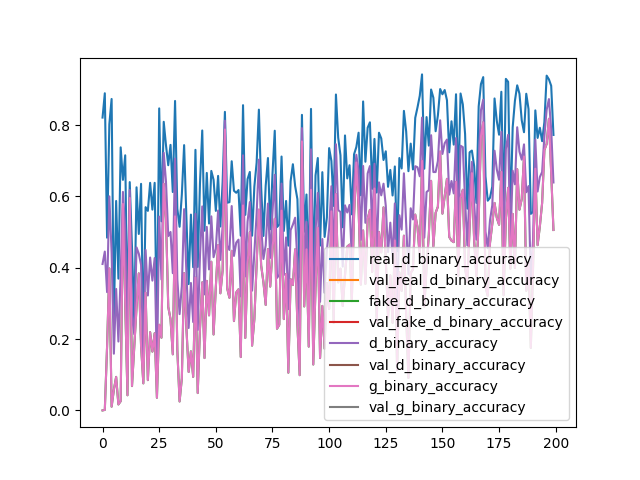
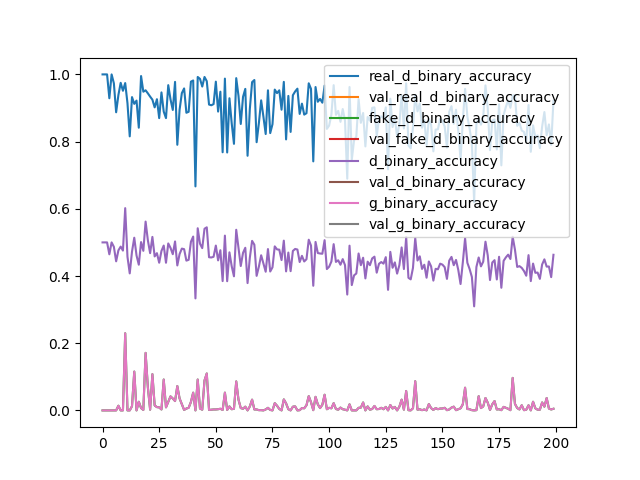
Refine eval function for external use; Gan: Train discriminator on one mixed batch instead of one true and one fake; Rerun demo.py

diff --git a/chandelier/models.py b/chandelier/models.py
@@ -48,7 +48,8 @@ class Model:
                 loss = self.loss_function(out, y_batch)
                 loss.backward(retain_graph=True)
                 self.optimizer.step()
-            self.eval(x, y, None)
+            metrics = self.eval(x, y, None)
+            self._record(metrics)
             vprint(' - loss: {:.4f}'.format(self.hist['loss'][-1]), end='')
             if False:
                 vprint(' - val_loss: {:.4f}'.format(self.hist['val_loss'][-1]), end='')
@@ -57,18 +58,27 @@ class Model:
     def eval(self, x, y, validation_data):
         out = self.model(x, training=False)
         loss = self.loss_function(out, y)
-        self.hist['loss'].append(loss.cpu().data.numpy())
+        
+        results = {}
+
+        results['loss'] = loss.cpu().data.numpy()
         for metric in self.metrics:
-            self.hist[metric.__name__].append(metric(y, out))
+            results[metric.__name__] = metric(y, out)
 
         if not validation_data is None:
             val_x = validation_data[0]
             val_y = validation_data[1]
             out = self.model(val_x, training=False)
             loss = self.loss_function(out, val_y)
-            self.hist['val_loss'].append(loss.cpu().data.numpy())
+            results['val_loss'] = loss.cpu().data.numpy()
             for metric in self.metrics:
-                self.hist['val_'+metric.__name__].append(metric(val_y, out))
+                results['val_'+metric.__name__] = metric(val_y, out)
+
+        return results
+
+    def _record(self, metrics):
+        for k, v in metrics.items():
+            self.hist[k].append(v)
 
     def predict(self, x, training=False):
         return self.model(x, training=False)
@@ -121,16 +131,16 @@ class GAN:
             for b in range(n_batches):
                 batch = idx[batch_size*b:batch_size*(b+1)]
                 real_x_batch = x[batch]
-                real_y_batch = torch.empty(real_x_batch.size(0), dtype=torch.float, device=self.device).fill_(1)
-                noise = torch.empty(real_x_batch.size(0), self.generator.model.input_shape, dtype=torch.float, device=self.device).normal_(0,1)
+                real_y_batch = torch.empty(real_x_batch.size(0)*2, dtype=torch.float, device=self.device).fill_(1)
+                noise = torch.empty(real_x_batch.size(0)*2, self.generator.model.input_shape, dtype=torch.float, device=self.device).normal_(0,1)
                 fake_x_batch = self.generator.predict(noise, training=True)
-                fake_y_batch = torch.empty(real_x_batch.size(0), dtype=torch.float, device=self.device).fill_(0)
+                fake_y_batch = torch.empty(noise.size(0), dtype=torch.float, device=self.device).fill_(0)
 
-                # Real data
-                self.discriminator.fit(real_x_batch, real_y_batch, batch_size=batch_size, epochs=1, verbose=0, initial_epoch=i)
+                x_batch = torch.cat((real_x_batch, fake_x_batch[::2]))
+                y_batch = torch.cat((real_y_batch[::2], fake_y_batch[::2]))
 
-                # Fake data
-                self.discriminator.fit(fake_x_batch, fake_y_batch, batch_size=batch_size, epochs=1, verbose=0, initial_epoch=i)
+                # Discriminator
+                self.discriminator.fit(x_batch, y_batch, batch_size=batch_size, epochs=1, verbose=0, initial_epoch=i)
 
                 # Generator
                 self.generator.optimizer.zero_grad()
@@ -138,7 +148,8 @@ class GAN:
                 loss = self.loss_function(out, real_y_batch)
                 loss.backward(retain_graph=True)
                 self.generator.optimizer.step()
-            self.eval(x, None)
+            metrics = self.eval(x, None)
+            self._record(metrics)
             vprint(' - d_loss: {:.4f}'.format(self.hist['d_loss'][-1]), end='')
             vprint(' - g_loss: {:.4f}'.format(self.hist['g_loss'][-1]), end='')
             if False:
@@ -152,31 +163,41 @@ class GAN:
         fake_x = self.generator.predict(noise, training=True)
         fake_y = torch.empty(real_x.size(0), dtype=torch.float, device=self.device).fill_(0)
 
+        results = {}
+
         # Real data
         out = self.discriminator.predict(real_x)
         loss = self.loss_function(out, real_y)
-        self.hist['real_d_loss'].append(loss.cpu().data.numpy())
+        results['real_d_loss'] = loss.cpu().data.numpy()
         for metric in self.metrics:
-            self.hist['real_d_'+metric.__name__].append(metric(real_y, out))
+            results['real_d_'+metric.__name__] = metric(real_y, out)
 
         # Fake data
         out = self.discriminator.predict(fake_x)
         loss = self.loss_function(out, fake_y)
-        self.hist['fake_d_loss'].append(loss.cpu().data.numpy())
+        results['fake_d_loss'] = loss.cpu().data.numpy()
         for metric in self.metrics:
-            self.hist['fake_d_'+metric.__name__].append(metric(fake_y, out))
+            results['fake_d_'+metric.__name__] = metric(fake_y, out)
 
         # All data
         out = self.discriminator.predict(torch.cat((real_x, fake_x)))
         loss = self.loss_function(out, torch.cat((real_y, fake_y)))
-        self.hist['d_loss'].append(loss.cpu().data.numpy())
+        results['d_loss'] = loss.cpu().data.numpy()
         for metric in self.metrics:
-            self.hist['d_'+metric.__name__].append(metric(torch.cat((real_y, fake_y)), out))
+            results['d_'+metric.__name__] = metric(torch.cat((real_y, fake_y)), out)
 
         # Generator
         out = self.discriminator.predict(fake_x)
         loss = self.loss_function(out, real_y)
-        self.hist['g_loss'].append(loss.cpu().data.numpy())
+        results['g_loss'] = loss.cpu().data.numpy()
         for metric in self.metrics:
-            self.hist['g_'+metric.__name__].append(metric(real_y, out))
+            results['g_'+metric.__name__] = metric(real_y, out)
 
+        return results
+
+    def _record(self, metrics):
+        for k, v in metrics.items():
+            self.hist[k].append(v)
+
+
+    

diff --git a/demo.py b/demo.py
@@ -121,8 +121,8 @@ def test_gan():
     Y_train = torch.LongTensor(Y_train)
     Y_test = torch.LongTensor(Y_test)
 
-    generator = Generator(input_shape=10)
-    generator_optimizer = optim.Adam(generator.parameters(), lr=0.0005, betas=(0.5, 0.999), eps=1e-8)
+    generator = Generator(input_shape=256)
+    generator_optimizer = optim.Adam(generator.parameters(), lr=0.0002, betas=(0.7, 0.999), eps=1e-8)
     generator_loss = nn.BCELoss(reduction='mean')
     generator_model = Model(generator, device='cuda:2')
     generator_model.compile(optimizer=generator_optimizer, loss=generator_loss)
@@ -137,7 +137,7 @@ def test_gan():
     gan_loss = nn.BCELoss(reduction='mean')
     gan_metrics = [binary_accuracy]
     gan = GAN(discriminator_model, generator_model, loss=gan_loss, metrics=gan_metrics, device='cuda:2')
-    gan.fit(X_train, batch_size=64, epochs=200)
+    gan.fit(X_train, batch_size=128, epochs=200)
 
     plt.figure()
     plt.plot(gan.hist['d_loss'], label='d_loss')
